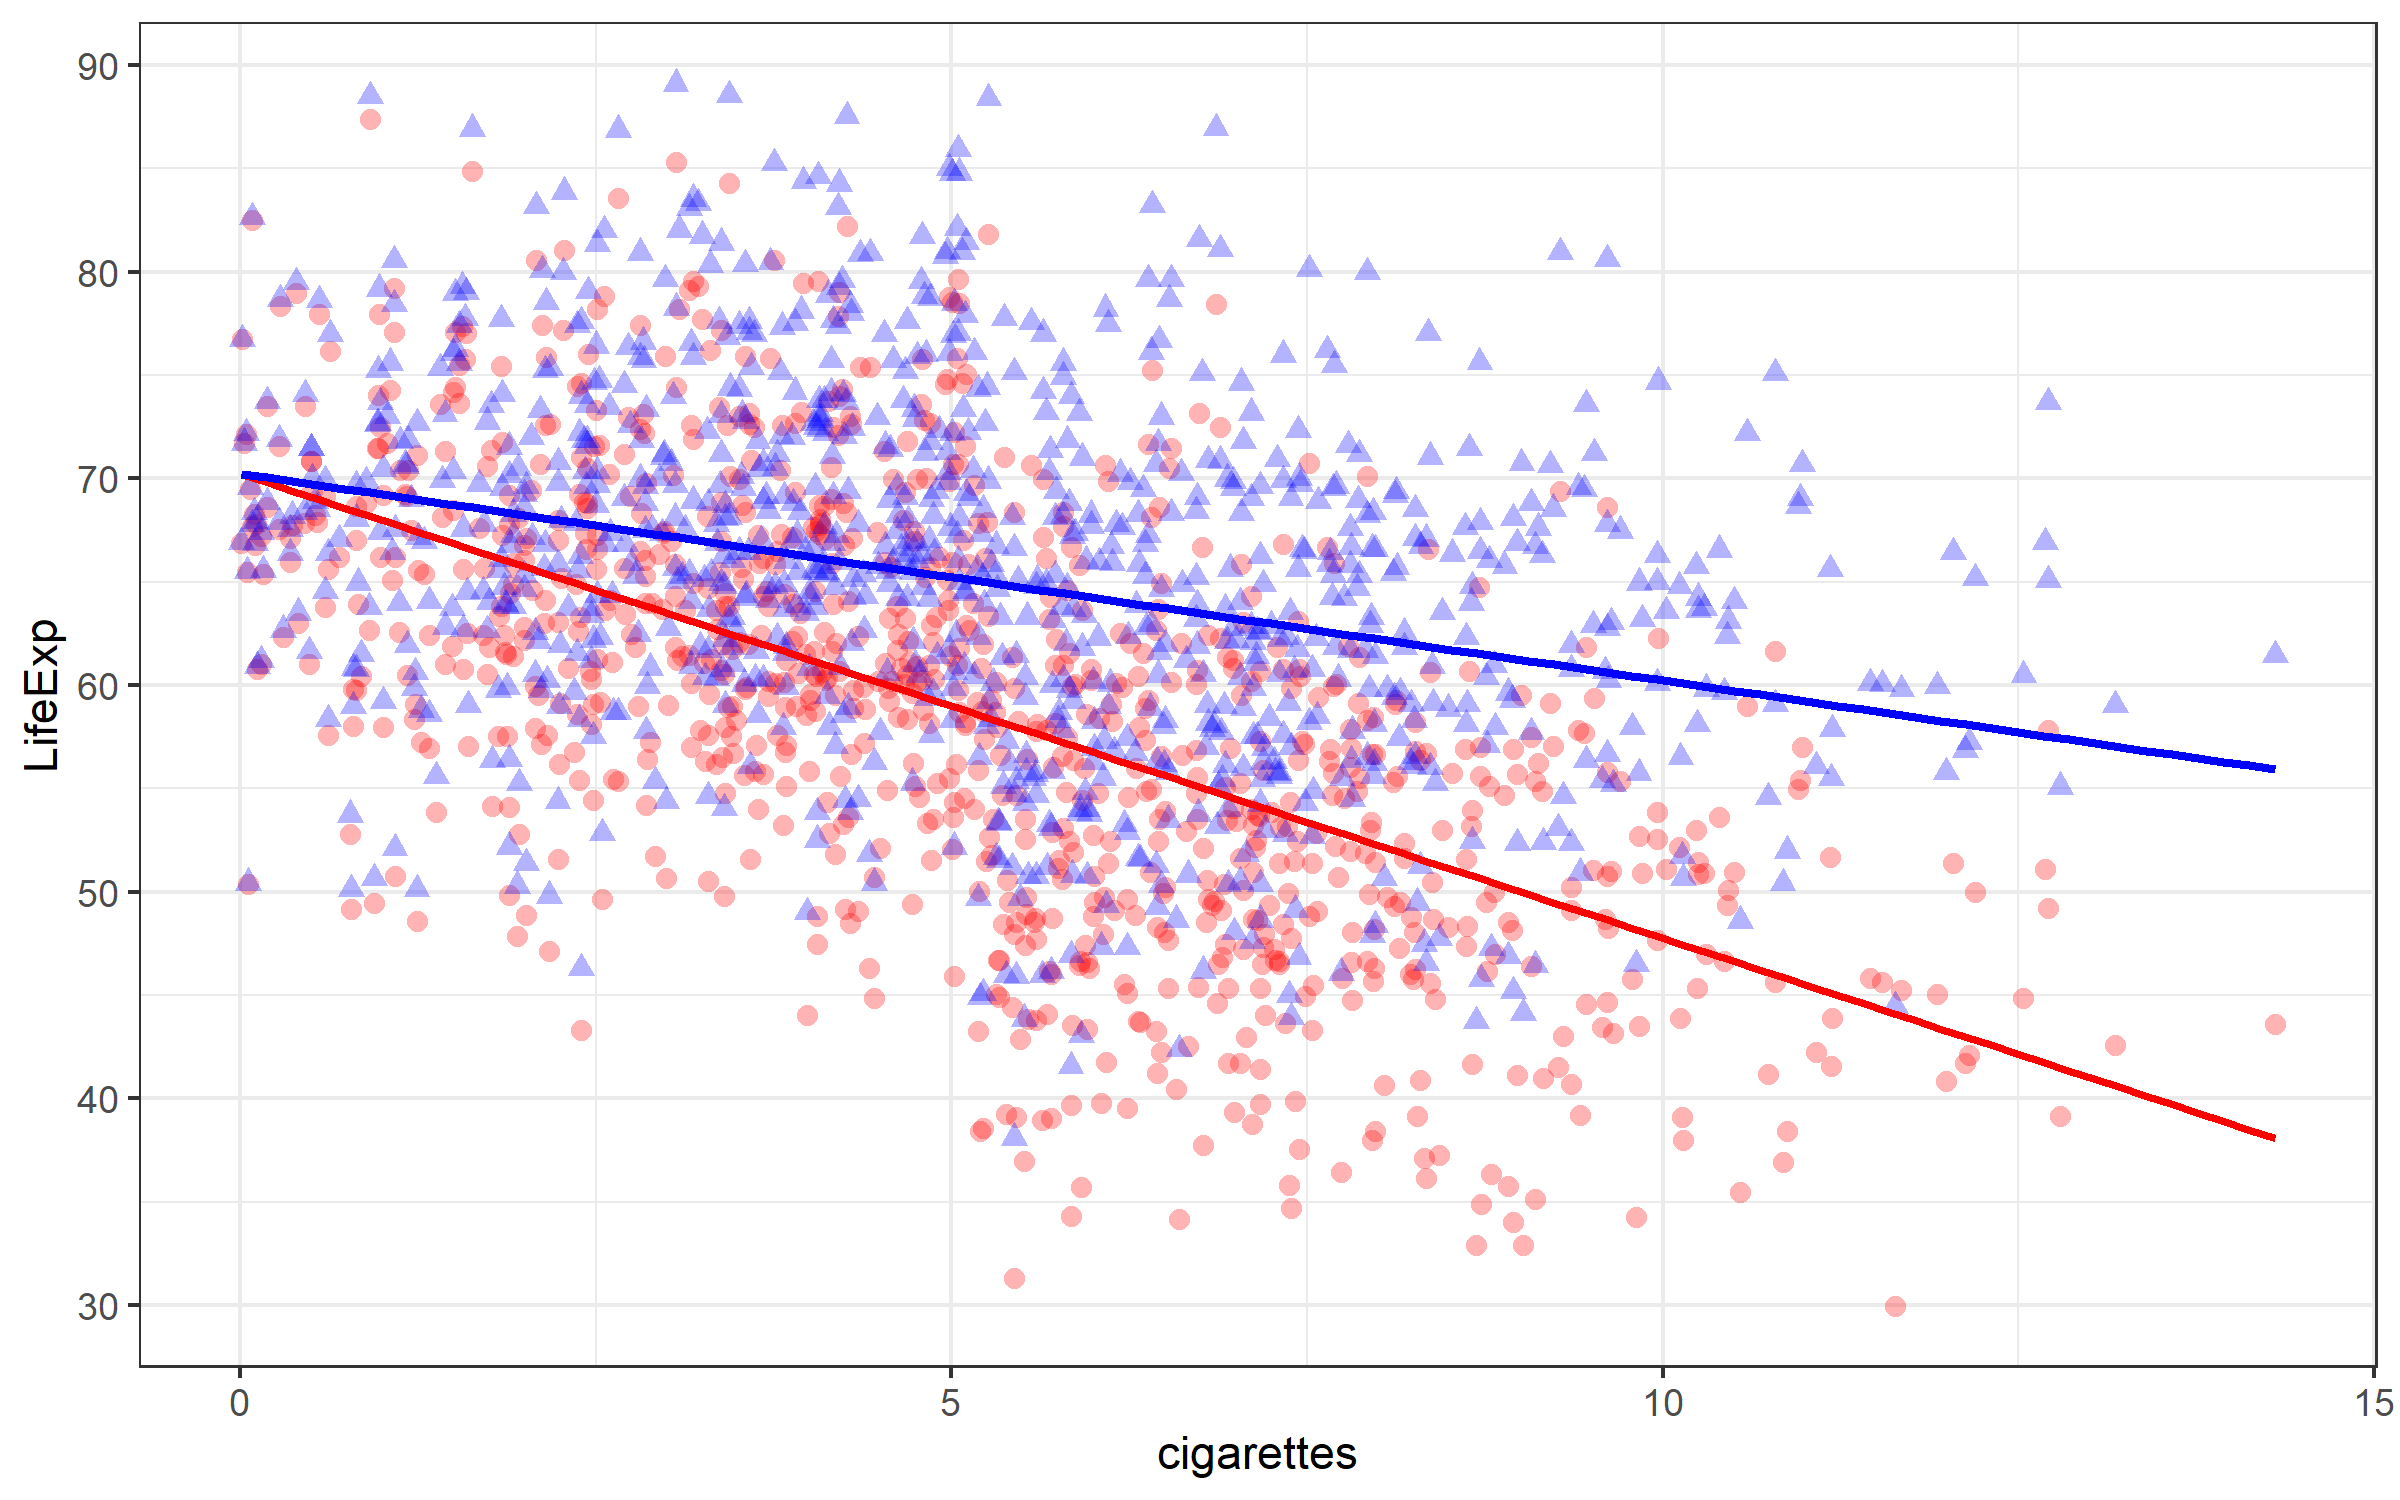
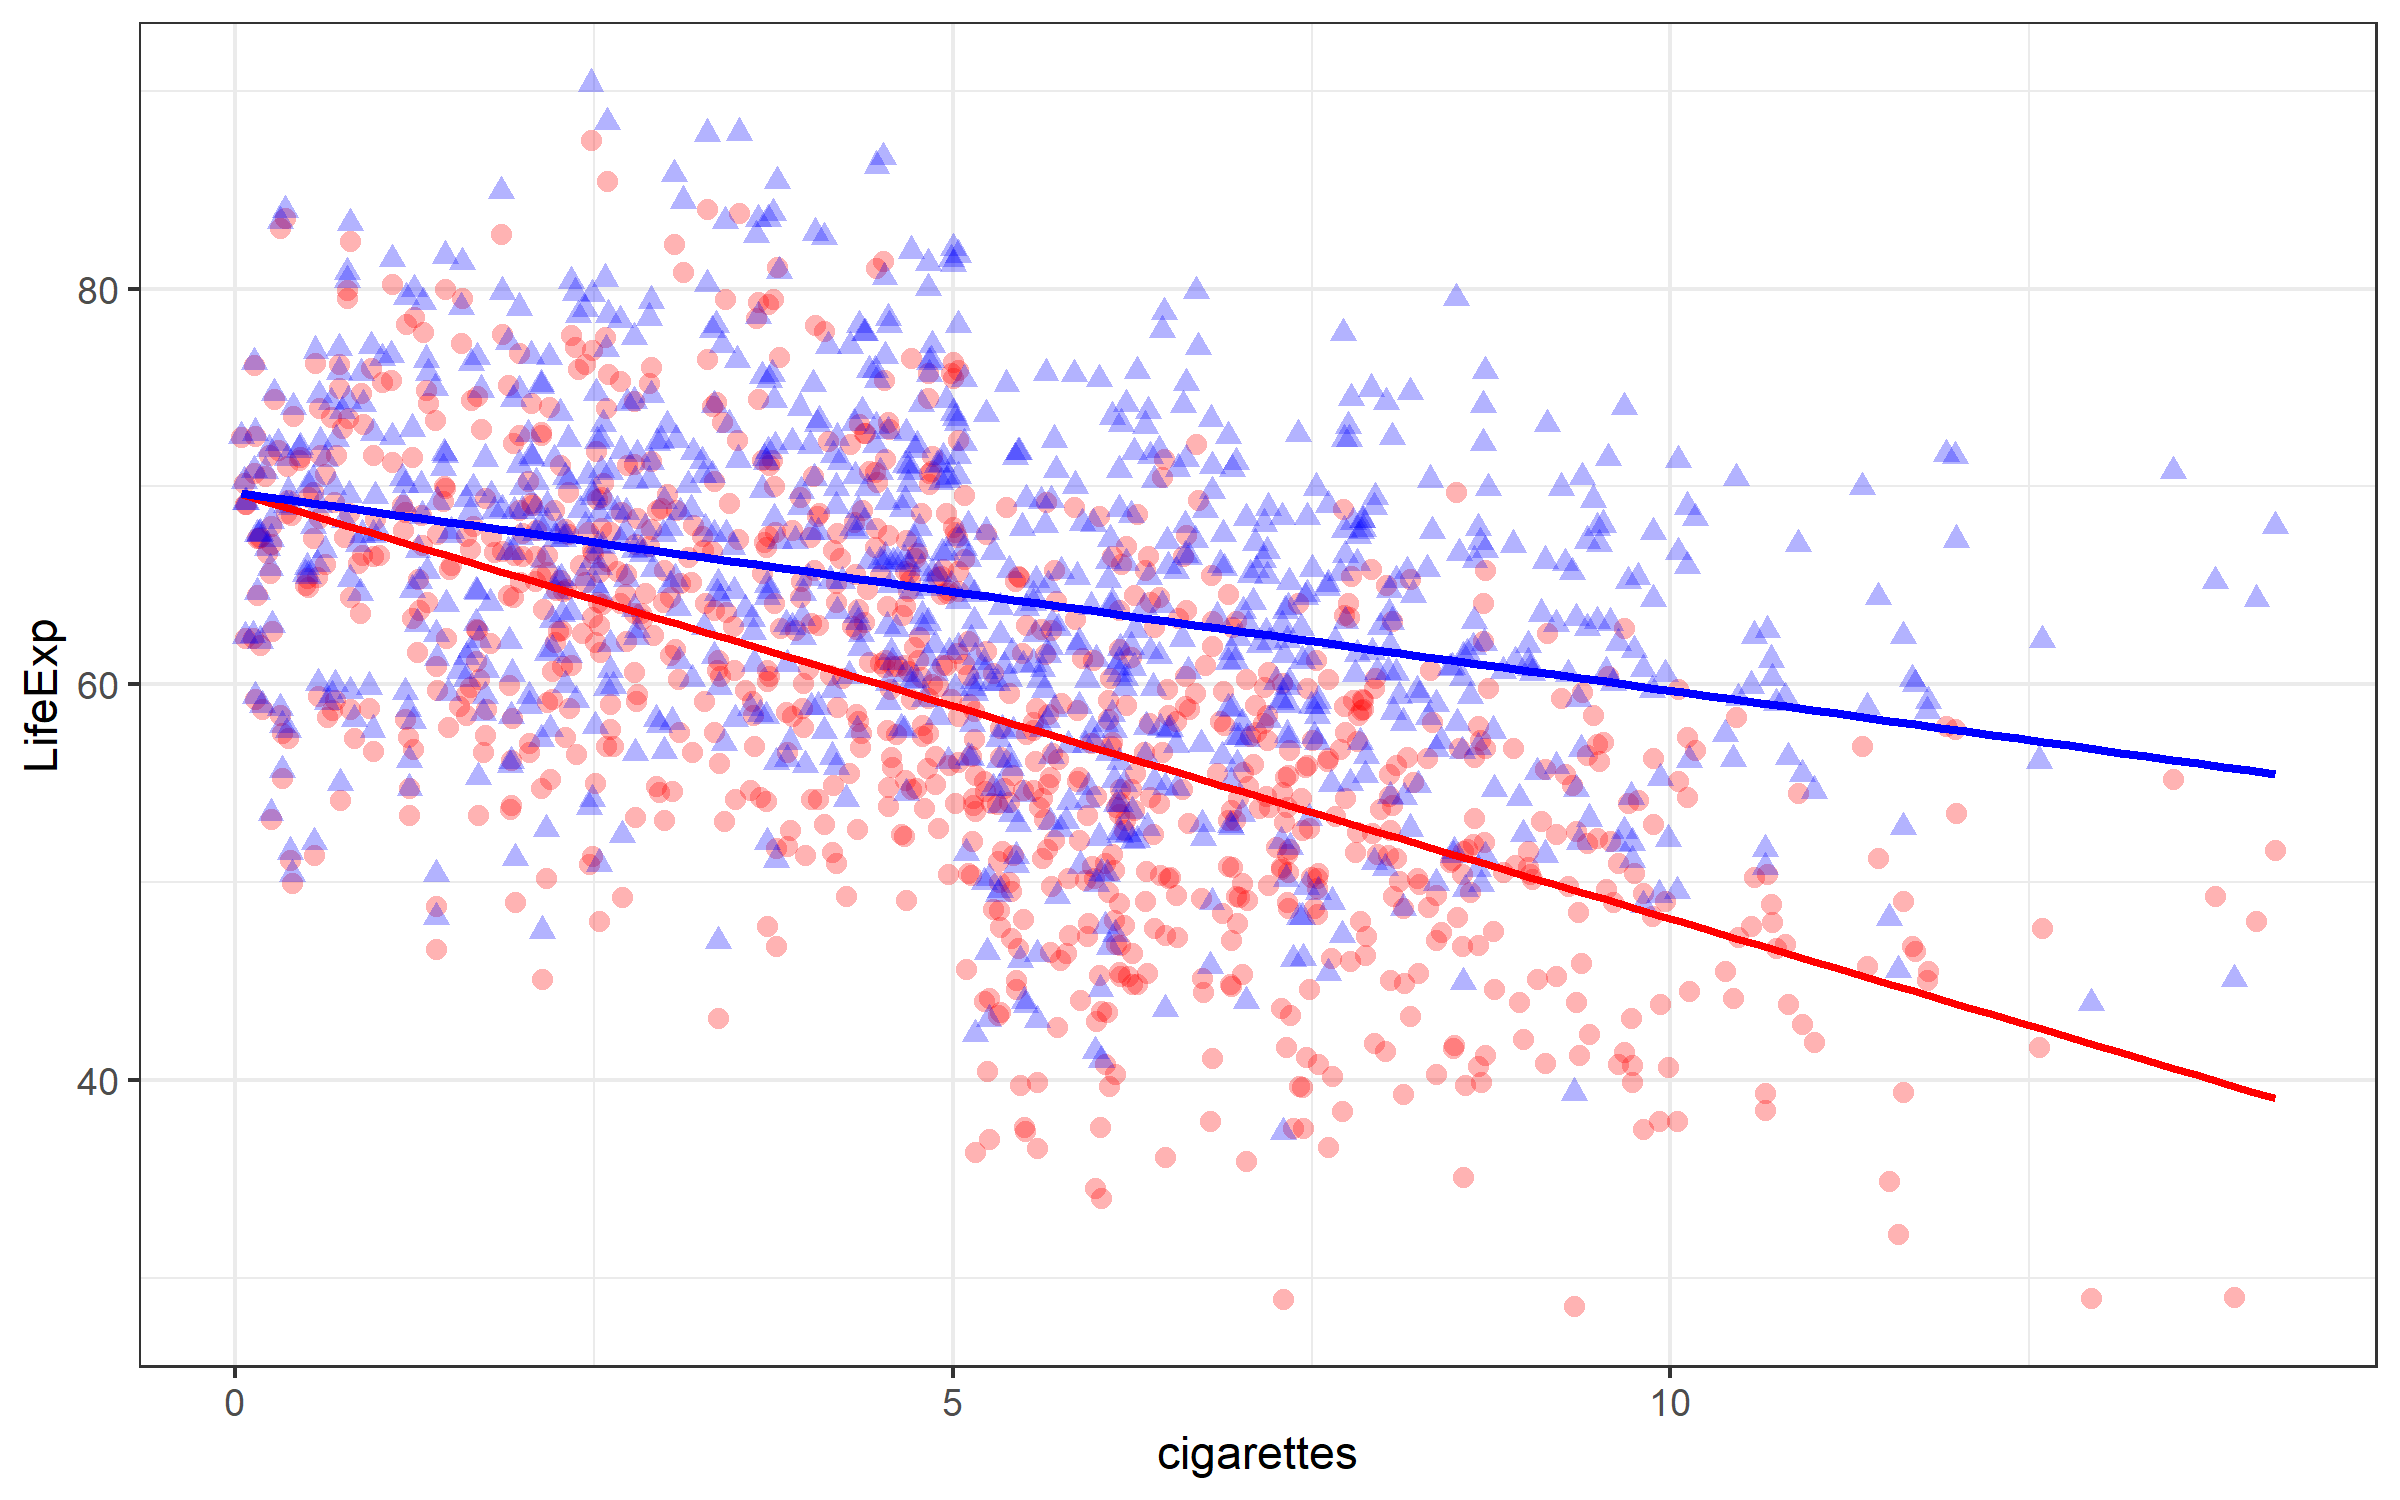
Update

diff --git a/09-Counterfactuals-and-selection-bias/09-Counterfactuals-and-selection-bias.html b/09-Counterfactuals-and-selection-bias/09-Counterfactuals-and-selection-bias.html
@@ -213,7 +213,7 @@ class: MSU
 
 - The red dots are the given data, plotting `\(LifeExp \sim cigarettes\)`
 - The blue triangles are where the points **would be if we could account for** `\(E[\tilde{u}|X]\neq 0\)`
-- Here, `\(E[\tilde{u}|X] = -1.25 \times cigarettes\)`
+- Here, `\(E[\tilde{u}|X] = -1.15 \times cigarettes\)`
 
 ---
 class: MSU
@@ -759,10 +759,6 @@ The main takeaways from today:
 7. Doing so lets us see where selection bias may occur
 8. Lack of balance in covariates may indicate presence of a selection bias
 9. Balance in covariates does not indicate lack of selection bias
-
-
-
-http://www.justinkirkpatrick.com/EC420MSU/09-Counterfactuals-and-selection-bias/MMTbl13.png
     </textarea>
 <style data-target="print-only">@media screen {.remark-slide-container{display:block;}.remark-slide-scaler{box-shadow:none;}}</style>
 <script src="https://remarkjs.com/downloads/remark-latest.min.js"></script>
